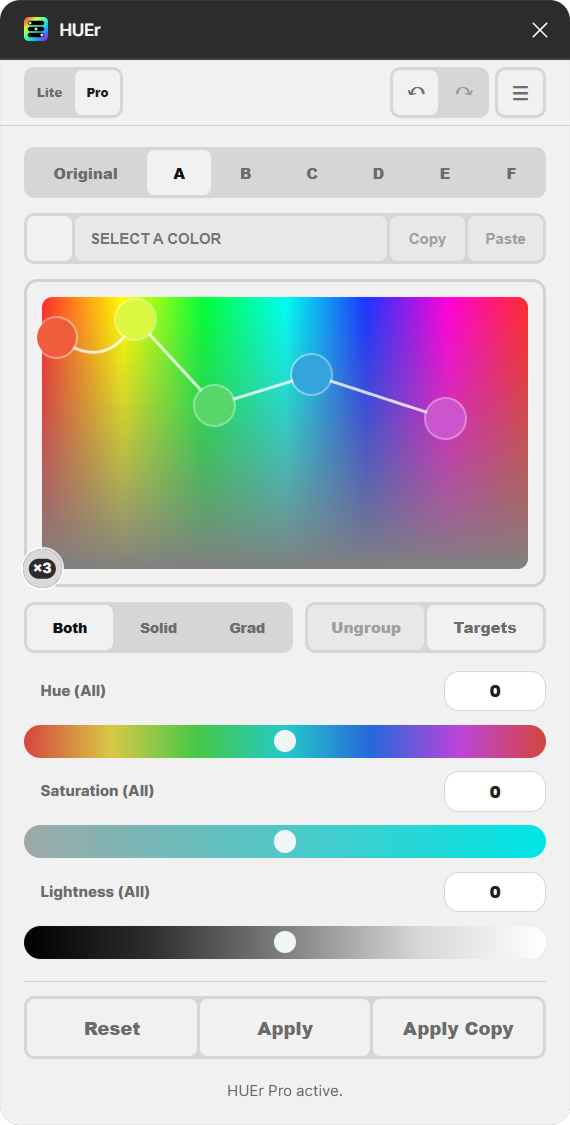
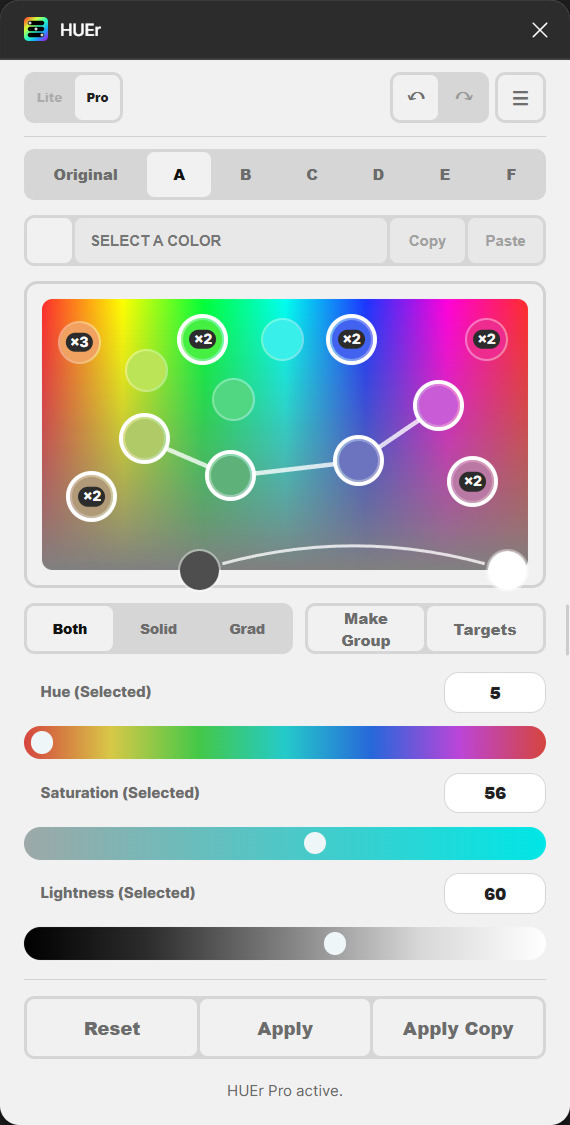
Update the panel screenshots
New dark and light captures with consistent names
(HUEr_Interface_D_Portrait_M.png, HUEr_Interface_L_Portrait_M.png).

diff --git a/index.html b/index.html
@@ -325,7 +325,7 @@
         <p>HUEr shows the fills, strokes and gradient stops of the layers you select as dots on one live color map. Drag them, group them, compare directions, and apply the result when it feels right.</p>
       </div>
       <div>
-        <img class="shot dark-only" src="images/HUEr_Interface_Portrait_M.png" alt="The HUEr panel in the dark theme">
+        <img class="shot dark-only" src="images/HUEr_Interface_D_Portrait_M.png" alt="The HUEr panel in the dark theme">
         <img class="shot light-only" src="images/HUEr_Interface_L_Portrait_M.png" alt="The HUEr panel in the light theme">
       </div>
     </div>
